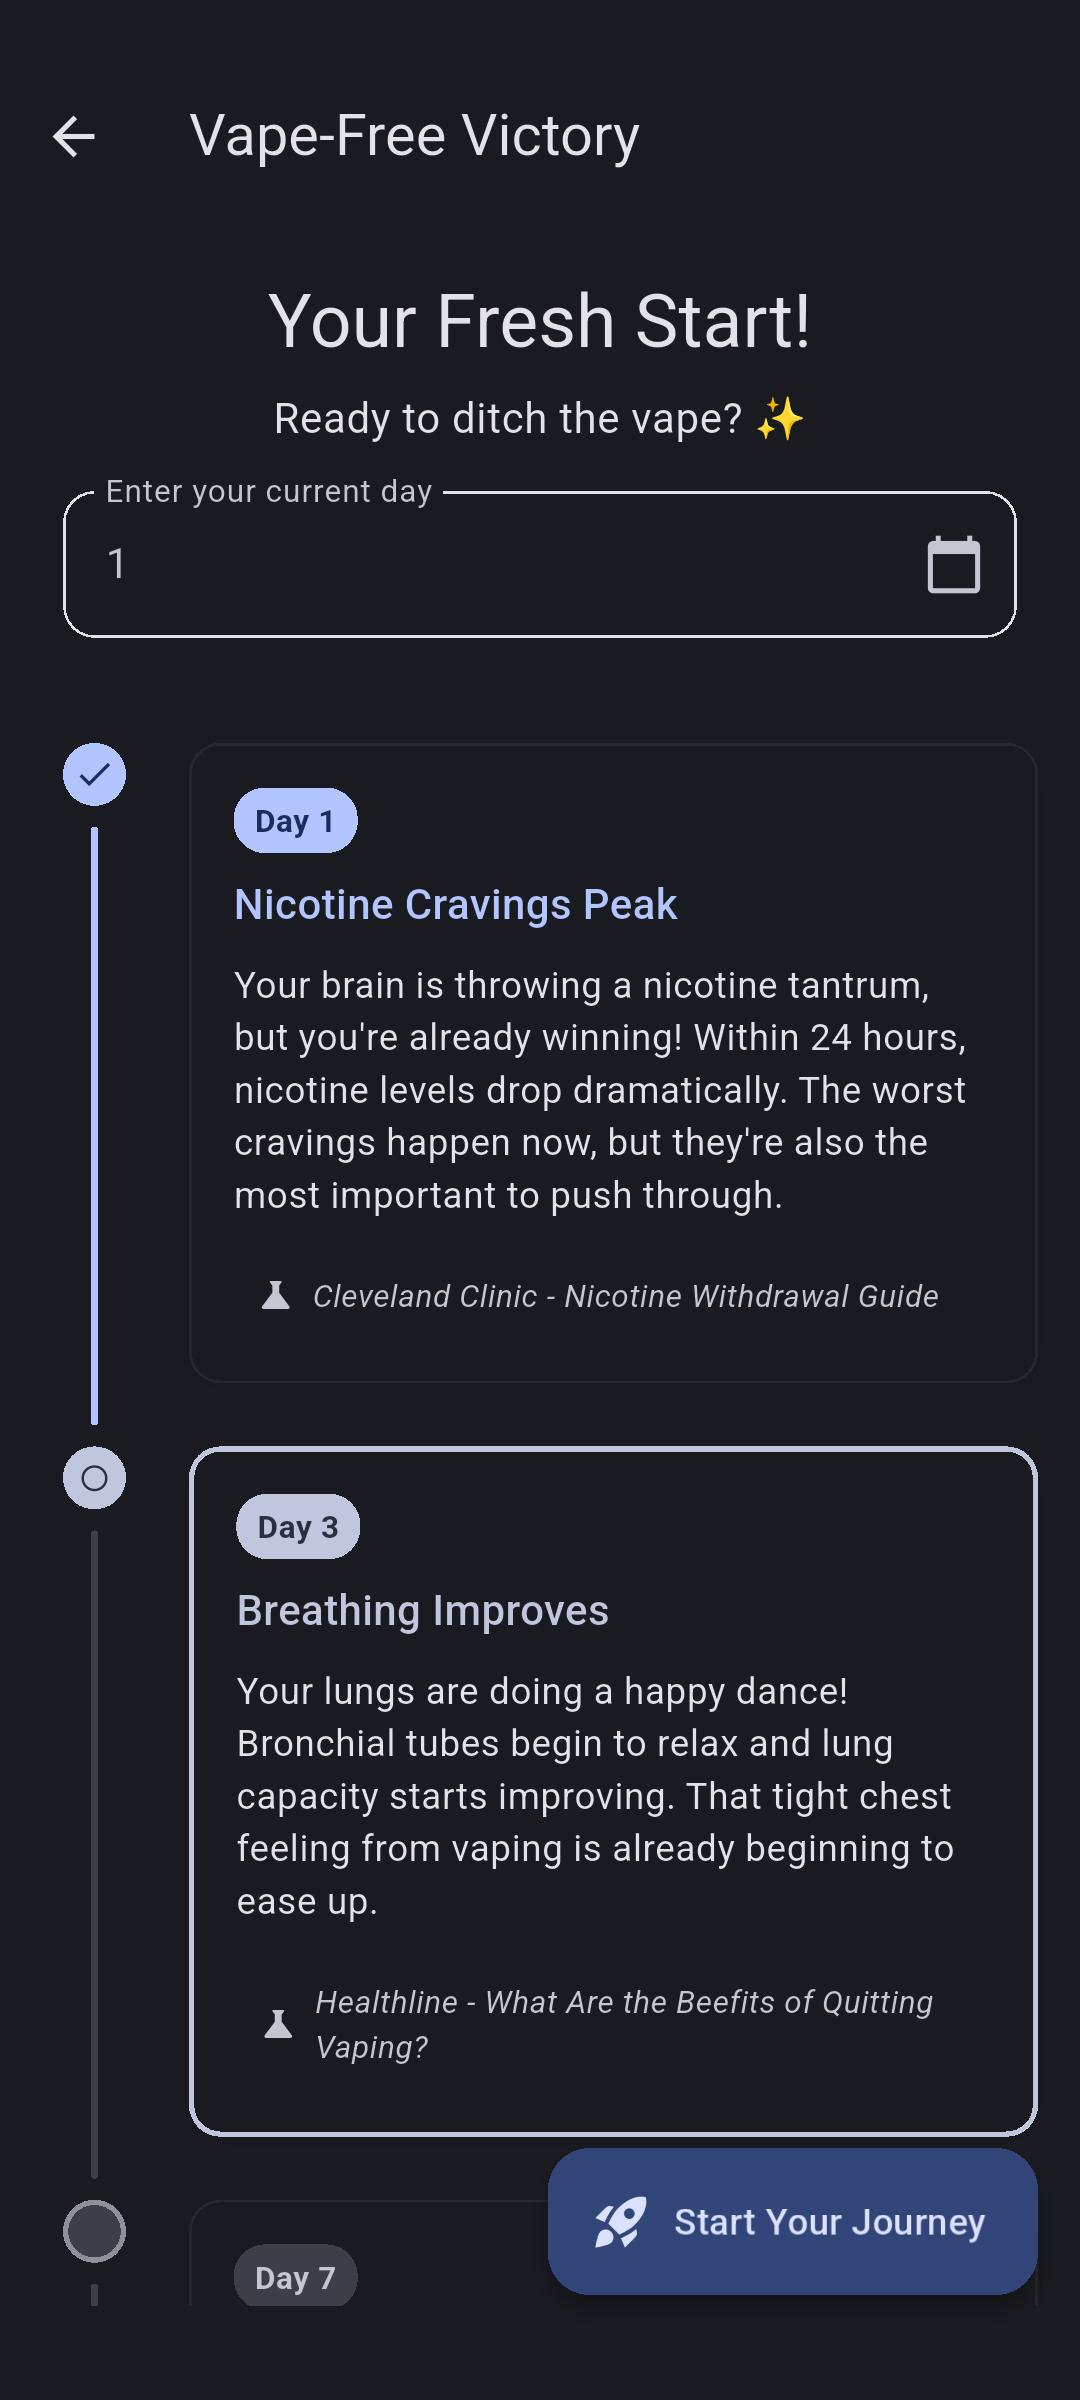
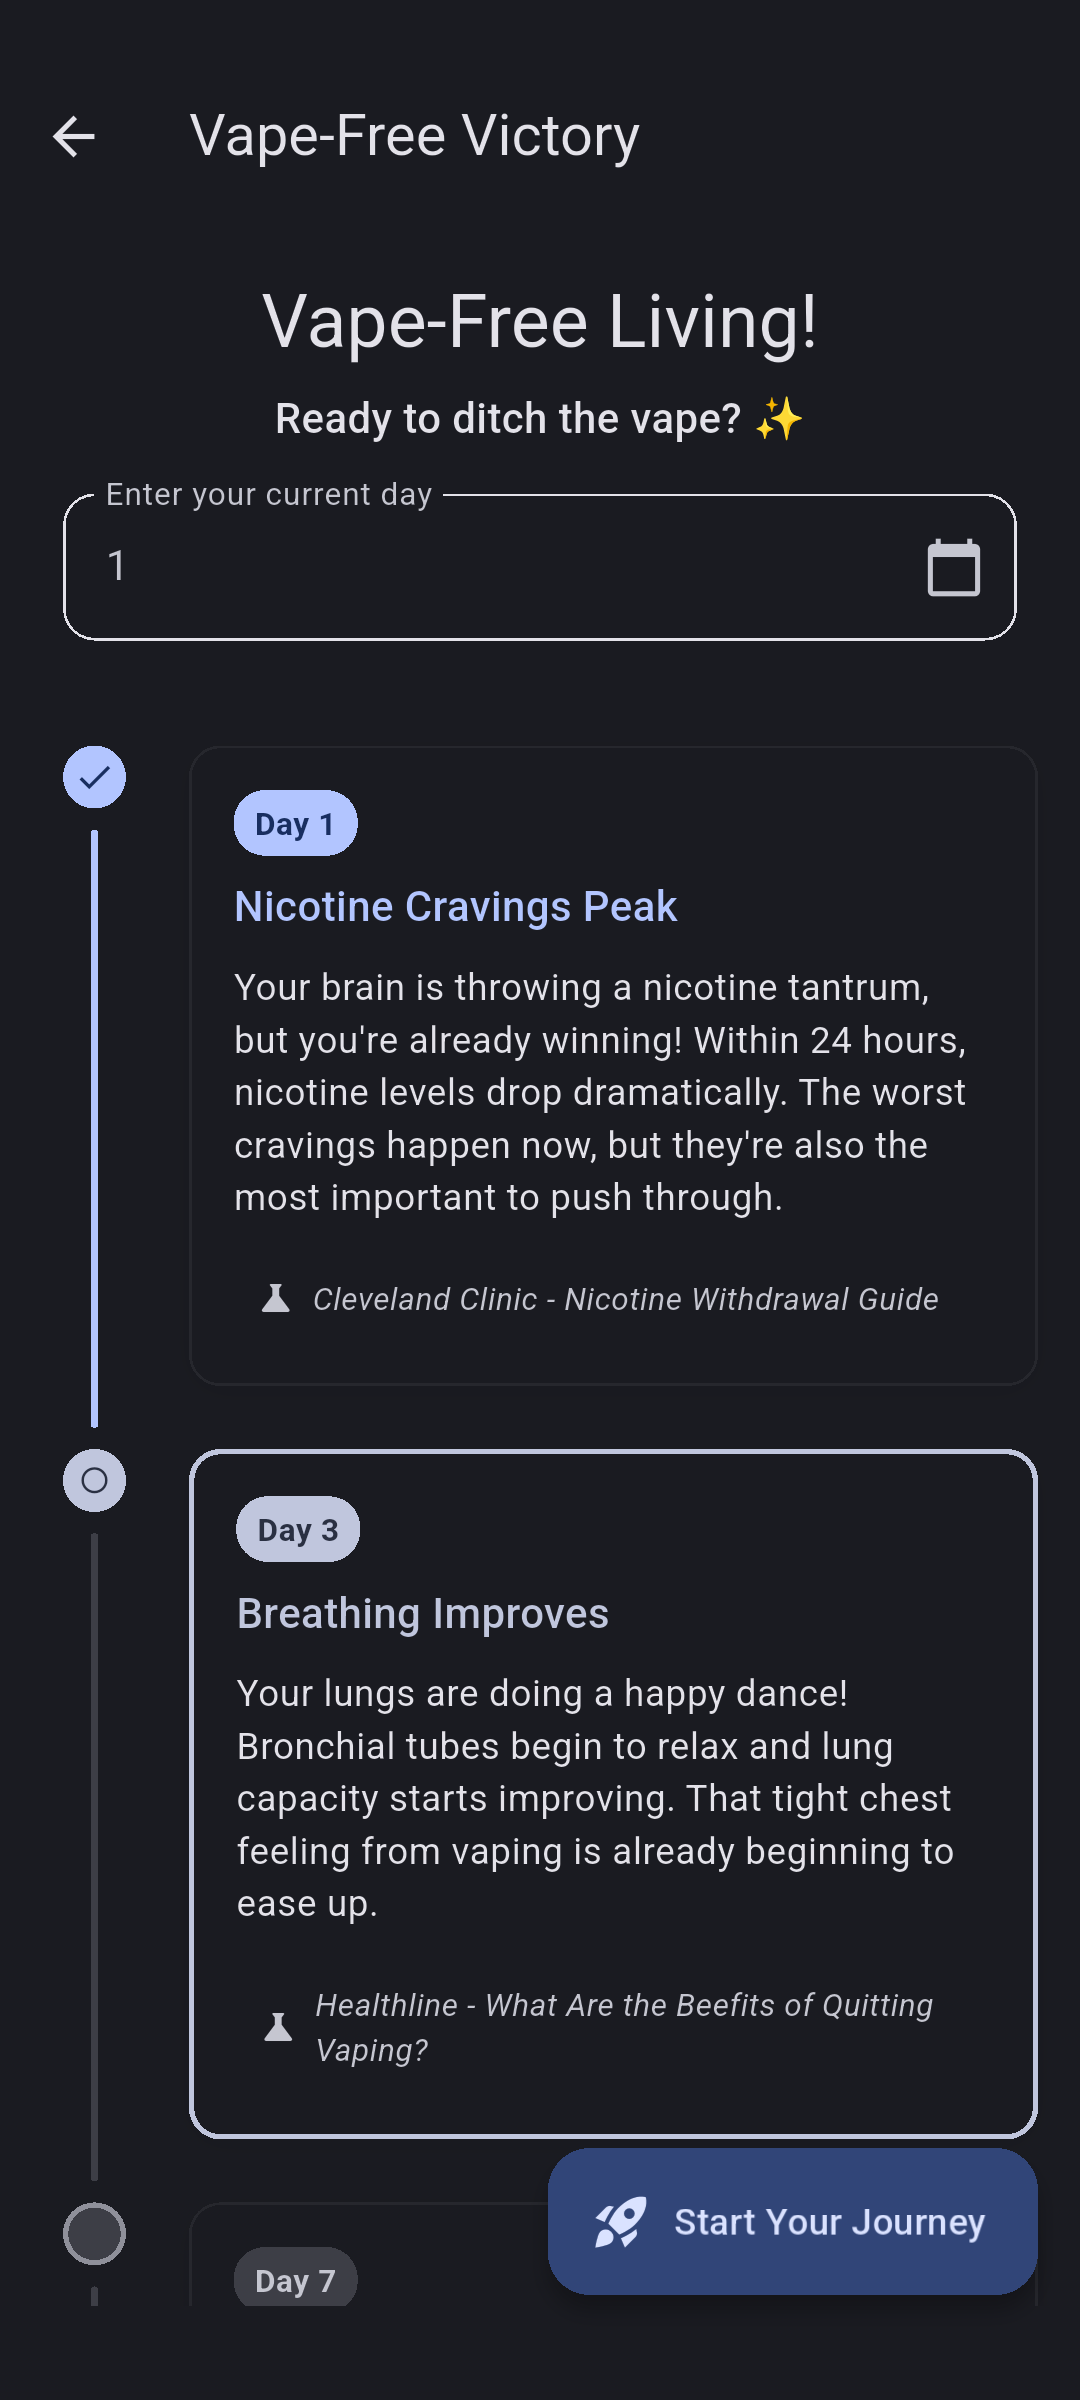
Customize headlines for not started

diff --git a/lib/quit_page_template.dart b/lib/quit_page_template.dart
@@ -171,9 +171,9 @@ class _QuitPageTemplateState extends State<QuitPageTemplate> {
                     started
                         ? widget.headerSubtitleStartedBuilder(currentDay)
                         : widget.headerSubtitleNotStarted,
-                    style: TextStyle(
-                      fontSize: 16,
+                    style: Theme.of(context).textTheme.titleMedium?.copyWith(
                       color: theme.appBarTheme.titleTextStyle?.color,
+                      fontWeight: FontWeight.w500,
                     ),
                   ),
                   const SizedBox(height: 16),

diff --git a/lib/pornography_page.dart b/lib/pornography_page.dart
@@ -91,7 +91,7 @@ class PornographyPage extends StatelessWidget {
       storageKey: 'pornography',
       milestones: milestones,
       headerTextStartedBuilder: (currentDay) => 'Reclaiming Your Mind!',
-      headerTextNotStarted: 'Your Recovery Journey!',
+      headerTextNotStarted: 'Freedom From Pornography!',
       headerSubtitleStartedBuilder: (currentDay) =>
           'Building authentic connections 🧠✨',
       headerSubtitleNotStarted: 'Ready to break free and rebuild? 💪',

diff --git a/lib/nicotine_pouches.dart b/lib/nicotine_pouches.dart
@@ -94,7 +94,7 @@ class NicotinePouchesPage extends StatelessWidget {
       storageKey: 'nicotine_pouches',
       milestones: milestones,
       headerTextStartedBuilder: (currentDay) => 'Fresh & Free!',
-      headerTextNotStarted: 'Your Fresh Start!',
+      headerTextNotStarted: 'Pouches-Free Progress!',
       headerSubtitleStartedBuilder: (currentDay) =>
           'Embrace a brighter, healthier you ✨',
       headerSubtitleNotStarted: 'Ready to ditch the pouches? 🚀',

diff --git a/lib/social_media_page.dart b/lib/social_media_page.dart
@@ -91,7 +91,7 @@ class SocialMediaPage extends StatelessWidget {
       storageKey: 'social_media',
       milestones: milestones,
       headerTextStartedBuilder: (currentDay) => 'Unplug & Play!',
-      headerTextNotStarted: 'Your Fresh Start!',
+      headerTextNotStarted: 'Digital Detox Journey!',
       headerSubtitleStartedBuilder: (currentDay) =>
           'Real life is the best feed 💖',
       headerSubtitleNotStarted: 'Ready to reclaim your time? 🚀',

diff --git a/lib/opioid_page.dart b/lib/opioid_page.dart
@@ -97,7 +97,7 @@ class OpioidPage extends StatelessWidget {
       storageKey: 'opioids',
       milestones: milestones,
       headerTextStartedBuilder: (currentDay) => 'Stronger Every Day!',
-      headerTextNotStarted: 'Your Fresh Start!',
+      headerTextNotStarted: 'Road to Recovery!',
       headerSubtitleStartedBuilder: (currentDay) => 'Embrace your strength 💪',
       headerSubtitleNotStarted: 'Ready to reclaim your life? 💖',
       infoBoxMessage:

diff --git a/lib/smoking_page.dart b/lib/smoking_page.dart
@@ -90,7 +90,7 @@ class SmokingPage extends StatelessWidget {
       storageKey: 'smoking',
       milestones: milestones,
       headerTextStartedBuilder: (currentDay) => 'Breathe Easy!',
-      headerTextNotStarted: 'Your Fresh Start!',
+      headerTextNotStarted: 'Smoke-Free Journey!',
       headerSubtitleStartedBuilder: (currentDay) =>
           'Every puff-free day is a win 🚭',
       headerSubtitleNotStarted: 'Ready to reclaim your health? ✨',

diff --git a/lib/vaping_page.dart b/lib/vaping_page.dart
@@ -96,7 +96,7 @@ class VapingPage extends StatelessWidget {
       storageKey: 'vaping',
       milestones: milestones,
       headerTextStartedBuilder: (currentDay) => 'Clear Skies Ahead!',
-      headerTextNotStarted: 'Your Fresh Start!',
+      headerTextNotStarted: 'Vape-Free Living!',
       headerSubtitleStartedBuilder: (currentDay) =>
           'Breathing easy, living free 🌬',
       headerSubtitleNotStarted: 'Ready to ditch the vape? ✨',

diff --git a/lib/alcohol_page.dart b/lib/alcohol_page.dart
@@ -94,7 +94,7 @@ class AlcoholPage extends StatelessWidget {
       storageKey: 'alcohol',
       milestones: milestones,
       headerTextStartedBuilder: (currentDay) => 'Cheers to You!',
-      headerTextNotStarted: 'Your Fresh Start!',
+      headerTextNotStarted: 'Sober Journey Ahead!',
       headerSubtitleStartedBuilder: (currentDay) => 'Every day is a win 🥳',
       headerSubtitleNotStarted: 'Ready for a brighter you? ✨',
     );
